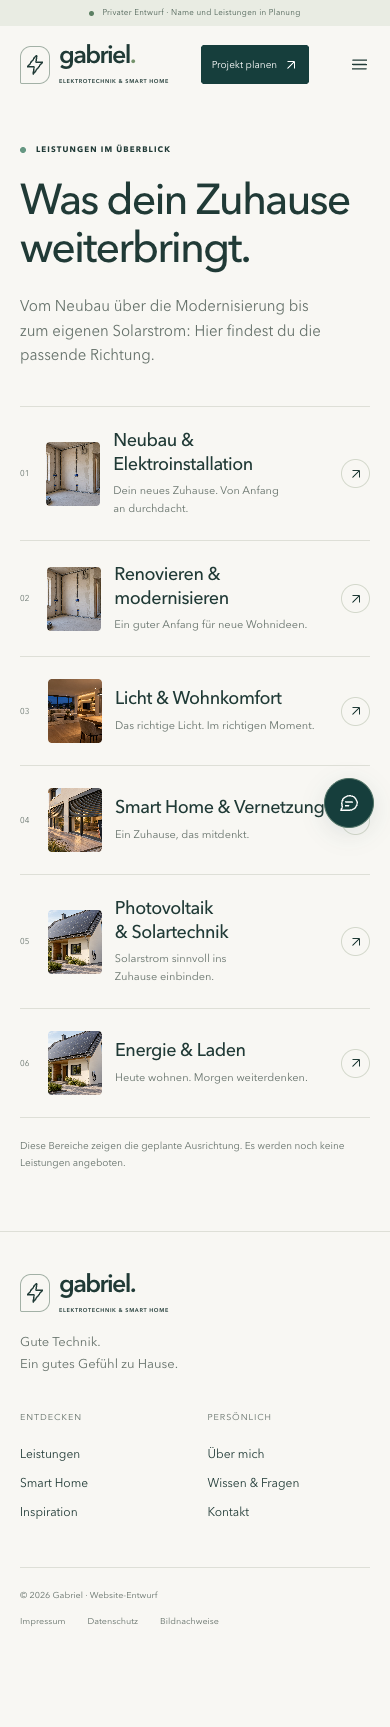
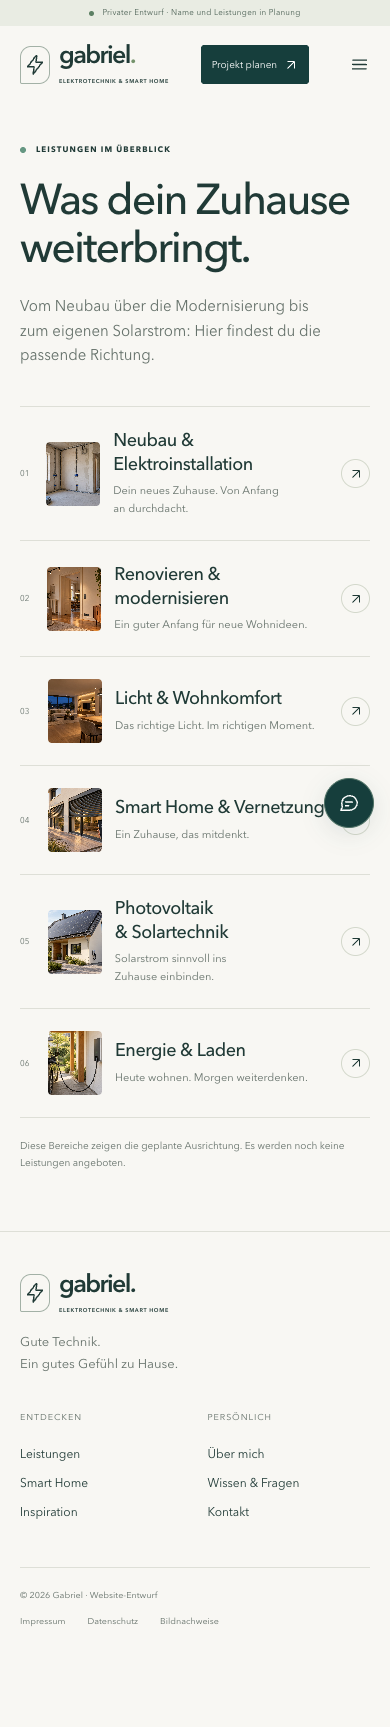
Eigene Bildmotive für Modernisierung und Energie ergänzen

Changed region(s): [[0.1231, 0.5831, 0.2769, 0.6445], [0.1231, 0.3069, 0.2769, 0.3683]]

diff --git a/docs/BILDPROMPTS.md b/docs/BILDPROMPTS.md
@@ -11,6 +11,15 @@ Die Originale bleiben im Imagegen-Ausgabeordner erhalten. Für die Website liege
 | Elektroinstallation im Neubau    | `public/assets/neubau-elektrik.jpg`        |
 | Photovoltaik und Wallbox         | `public/assets/photovoltaik-eigenheim.jpg` |
 
+## Ergänzende Motive
+
+| Motiv | Datei |
+| --- | --- |
+| Modernisierung im bestehenden Wohnraum | `public/assets/modernisierung-bestand.jpg` |
+| Wallbox und Laden am Carport | `public/assets/energie-wallbox.jpg` |
+
+Auch diese Motive wurden mit dem eingebauten Imagegen-Werkzeug erstellt. Neubau und Photovoltaik behalten die vorherigen Bildmotive.
+
 ## Verwendete Prompts
 
 ### licht
@@ -35,4 +44,16 @@ Use case: photorealistic-natural. Asset type: landscape editorial photograph for
 
 ```text
 Use case: photorealistic-natural. Asset type: landscape editorial photograph for a German home electrical and solar technology website, 3:2 landscape. Contemporary realistic European detached house with a pitched dark tile roof bearing a tidy flush array of dark photovoltaic modules, photographed at a clear three-quarter angle from the driveway. The solar panels are a primary clearly visible subject, with recognizable cell grid and realistic thin aluminium mounting. In the near side of the composition a clean house wall has a compact unbranded electric vehicle wallbox with a neatly looped charging cable, visibly integrated into the residential electrical infrastructure. No car needed. Warm cream facade, some natural timber trim, restrained green planting, clear soft daylight, calm attractive domestic scene with technically plausible construction. Architectural editorial photography, real texture, no overly large mansion, no floating panels, no words, logos, watermarks, collage, diagram, fake screen or people.
+```
+
+### modernisierung
+
+```text
+Use case: photorealistic-natural. Asset type: landscape architectural editorial photograph, 3:2, for the renovation and electrical modernization section of a German residential electrician website. Show an EXISTING older European apartment being carefully modernized, clearly distinct from a new-build construction shell. A mostly finished lived-in room with original herringbone oak parquet, high cream plaster walls, preserved simple period mouldings and old panelled doorway, a modest vintage white radiator, a contemporary sofa and sideboard. The electrical upgrade is visually explicit: crisp newly fitted modern dark wall keypad next to the existing doorway at ordinary switch height, a newly installed tidy matching three-gang socket plate near the sideboard, switched-on understated ceiling track spotlights and warm under-shelf LED lighting. On a folded protective cloth at the far edge of the sideboard lies one old yellowed rocker-switch cover and a compact closed installer case, hinting at a targeted upgrade in an existing home. No bare masonry, no large open wall chases, no exposed conductors, no new construction shell. Composition gives clear importance to the upgraded wall controls and lighting while keeping the existing-home context legible. Premium realistic architectural photography with restrained warm neutral materials, natural texture, soft late-afternoon light plus visibly illuminated electrical lights. No words, brands, logos, watermarks, collage, before-after split, diagrams, huge house, artificial futuristic gadgets, or people.
+```
+
+### energie
+
+```text
+Use case: photorealistic-natural. Asset type: landscape editorial photograph, 3:2, for an Energy and Home EV Charging service page on a German residential electrical contractor website. A realistic modest private home carport with natural timber posts and a cream house wall. The clearly visible main subject is a contemporary unbranded compact electric vehicle wallbox mounted at normal practical height on the house wall, with a small simple status LED and one neatly routed cable physically plugged into the charging port on the rear side of a parked understated dark grey electric family car. Medium-wide three-quarter view, wallbox and charging connection in clear focus, only part of the car visible so the technology stays central. Ordinary tidy residential surroundings, discreet garden visible beyond the carport, soft daylight, warm cream, muted green and oak palette consistent with premium residential architecture photography. Technically plausible cable routing and plug, realistic proportions and textures. No roof or photovoltaic array as primary subject, no brand badges, words, numbers, fake dashboards, watermarks, collage, exposed electrical wires, unrealistic neon or futuristic equipment, or people.
 ```

diff --git a/docs/PROJEKTSTAND.md b/docs/PROJEKTSTAND.md
@@ -13,8 +13,9 @@ Ein Meisterabschluss ist bisher eine Zukunftsüberlegung. Keine abgeschlossene Q
 ## Umgesetzt
 
 - Lokaler statischer Entwurf mit 17 Inhaltsseiten und einer Fehlerseite.
-- Helle Flächen, Petrol, zurückhaltende Akzente und lokale Wohnraumbilder, ergänzt um vier gekennzeichnete KI-Visualisierungen mit sichtbarer Elektrotechnik.
+- Helle Flächen, Petrol, zurückhaltende Akzente und lokale Wohnraumbilder, ergänzt um sechs gekennzeichnete KI-Visualisierungen mit sichtbarer Elektrotechnik.
 - Sechs Leistungsbereiche: Neubau, Modernisierung, Licht, Smart Home, Photovoltaik sowie Energie und Laden. Alle haben eine eigene bebilderte Unterseite und sind im Projektplaner auswählbar.
+- Jeder Leistungsbereich hat ein eigenes Bildmotiv. Modernisierung zeigt einen erneuerten Altbauwohnraum; Energie und Laden zeigt eine Wallbox am privaten Carport mit angeschlossenem Elektroauto. Neubau und Photovoltaik behalten die zuvor abgestimmten Motive.
 - Inspiration zeigt Beleuchtung am Abend, Außenjalousien mit Fernsteuerung, Neubauinstallation und Photovoltaik mit Wallbox.
 - Die großen wiederholten Abschlussblöcke mit Projektaufruf wurden entfernt. Der Einstieg bleibt oben rechts und im Startseiten-Hero; die Kontaktseite behält ihren direkten Planerzugang.
 - Auf Mobilgeräten ist der Assistenteneinstieg auf ein kleines, zugänglich beschriftetes Symbol reduziert, damit er weniger Inhalt verdeckt.
@@ -37,6 +38,7 @@ Statisches HTML aus gemeinsamen JavaScript-Vorlagen, CSS und ergänzendes Browse
 - Formular: notwendige Auswahl, Rücknavigation, sichere Darstellung von Freitext, Dateiexport und Zurücksetzen beim Neuladen. Neubau und Photovoltaik erscheinen korrekt in der Zusammenfassung.
 - Mobile Navigation und alle Seiten bei 375 Pixeln Breite ohne horizontales Überlaufen.
 - Startseite, Inspiration und ergänzende Leistungsansichten auf Desktop beziehungsweise Mobil visuell geprüft; Ansichten liegen unter `docs/vorschau/`.
+- Die neuen Motive für Modernisierung und Energie sind in Übersicht und Unterseiten geladen und geprüft. Die Leistungsübersicht wurde zusätzlich bei 390 Pixeln Breite kontrolliert; der Ausschnitt des Wallboxbilds hält das Gerät im Blick.
 
 ## Inhaltliche Orientierung für diese Überarbeitung
 

diff --git a/README.md b/README.md
@@ -64,7 +64,7 @@ Die Website liefert fertiges HTML mit CSS und ergänzendem JavaScript aus. Es we
 
 [Inspiration auf Desktop](docs/vorschau/inspiration-desktop.png) · [Inspiration auf Mobil](docs/vorschau/inspiration-mobil.png)
 
-Die großen wiederkehrenden Projektaufrufe wurden auf Gabriels Wunsch entfernt. Der Planer ist weiterhin über den Button oben rechts und den Einstieg auf der Startseite erreichbar. Alle Leistungsunterseiten zeigen passende Technikmotive. Die generierten Bilder und ihre Prompts sind in [BILDPROMPTS.md](docs/BILDPROMPTS.md) dokumentiert.
+Die großen wiederkehrenden Projektaufrufe wurden auf Gabriels Wunsch entfernt. Der Planer ist weiterhin über den Button oben rechts und den Einstieg auf der Startseite erreichbar. Jeder Leistungsbereich hat ein eigenes Technikmotiv: Modernisierung zeigt einen bestehenden Wohnraum mit erneuerter Elektrik, Energie und Laden eine Wallbox mit angeschlossenem Elektroauto. Die generierten Bilder und ihre Prompts sind in [BILDPROMPTS.md](docs/BILDPROMPTS.md) dokumentiert.
 
 ## Nächster Schritt
 

diff --git a/docs/BILDQUELLEN.md b/docs/BILDQUELLEN.md
@@ -4,7 +4,7 @@ Die Bilder werden lokal ausgeliefert und sind auf den Seiten als Beispiele geken
 
 ## KI-Visualisierungen
 
-Vier ergänzende Technikmotive wurden mit dem eingebauten Imagegen-Werkzeug erstellt: eingeschaltete Wohnraumbeleuchtung, Außenjalousien mit Fernbedienung, Elektroinstallation im Neubau sowie Photovoltaik mit Wallbox. Die Dateien liegen unter `public/assets/` und sind auf der Website als KI-Visualisierungen gekennzeichnet. Dateipfade und vollständige Prompts stehen in [BILDPROMPTS.md](BILDPROMPTS.md).
+Sechs Technikmotive wurden mit dem eingebauten Imagegen-Werkzeug erstellt: eingeschaltete Wohnraumbeleuchtung, Außenjalousien mit Fernbedienung, Elektroinstallation im Neubau, Modernisierung im Bestand, Photovoltaik mit Wallbox sowie Laden am eigenen Carport. Die Dateien liegen unter `public/assets/` und sind auf der Website als KI-Visualisierungen gekennzeichnet. Dateipfade und vollständige Prompts stehen in [BILDPROMPTS.md](BILDPROMPTS.md).
 
 ## Wohnraumfotos
 
